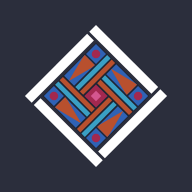
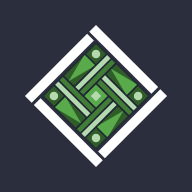
Add files via upload

Changed region(s): [[0.2188, 0.2188, 0.7812, 0.7812]]

diff --git a/css/style.css b/css/style.css
@@ -1,13 +1,11 @@
 /* Maintenance Management portal
-   Palette: Tapestry slate + turquoise, with rust and a four-colour weave bar from the rug logo. Set brand.primary and brand.accent in js/config.js to change it. */
+   Palette: Tapestry slate + green by default. Set brand.primary and brand.accent in js/config.js to change it. */
 :root{
   --navy:#2b2e3c; --navy-2:#383b48; --navy-soft:#4b4d59;
   /* Brand colours. These defaults are overwritten by brand.accent and brand.primary in js/config.js */
   --navy-hover:#404350;
-  --green:#3a9fc4; --green-deep:#2a7290; --green-hover:#25647f; --green-ink:#1e5168;
-  --green-tint:#e1f1f6; --green-mist:#f2f9fb; --green-line:#c9e4ee; --green-light:#a5d4e6; --green-glow:rgba(42,114,144,.35);
-  --warm:#b8502e; --warm-light:#e3906f;
-  --weave:linear-gradient(90deg,#b8502e 0 25%,#3a9fc4 25% 50%,#2f62b5 50% 75%,#a3284f 75% 100%);
+  --green:#58aa4b; --green-deep:#417d37; --green-hover:#396e30; --green-ink:#2f5c28;
+  --green-tint:#e6f2e4; --green-mist:#f3f9f2; --green-line:#d0e7cd; --green-light:#b4d9ae; --green-glow:rgba(65,125,55,.35);
   --bg:#f5f6f8; --surface:#ffffff; --ink:#1a1f2b; --muted:#5a6273; --line:#e3e7ed; --line-2:#d2d8e1;
   --info:#363946; --info-bg:#eff1f3; --info-line:#d9dce2;
   --amber:#8a5a00; --amber-bg:#fff4dc; --amber-line:#f0d08a;
@@ -603,11 +601,3 @@ h1,h2,h3,.hero-full h1{font-weight:600}
 .brand-site{color:var(--green-light);font-size:1rem}
 @media (max-width:640px){ .brand-lockup{height:44px} .brand-divider{height:26px} .brand-site{font-size:.85rem} }
 @media (max-width:440px){ .brand-divider,.brand-site{display:none} .brand-lockup{height:46px} }
-
-/* v18 rug palette: warm labels and the woven colour bar */
-.kicker,.contact-panel .kicker{color:var(--warm)}
-.hero-full{border-bottom:0}
-.hero-full::after{content:"";position:absolute;left:0;right:0;bottom:0;height:5px;background:var(--weave);z-index:3}
-.hero-full .ticker-label{color:var(--warm-light)}
-.site-footer{border-top:0;position:relative}
-.site-footer::before{content:"";position:absolute;left:0;right:0;top:0;height:4px;background:var(--weave)}

diff --git a/js/brand.js b/js/brand.js
@@ -52,17 +52,6 @@
     root.setProperty("--green-glow", "rgba(" + deep.map(Math.round).join(",") + ",.35)");
   }
 
-  var warm = hex(B.warm);
-  if (warm) {
-    root.setProperty("--warm", toHex(until(warm, WHITE, 4.6, BLACK)));
-    root.setProperty("--warm-light", toHex(until(mix(warm, WHITE, 0.35), primary || [43, 46, 60], 4.6, WHITE)));
-  }
-  if (B.weave && B.weave.length) {
-    var cols = B.weave.map(hex).filter(Boolean), seg = 100 / cols.length, stops = [];
-    cols.forEach(function (c, i) { stops.push(toHex(c) + " " + (i * seg) + "% " + ((i + 1) * seg) + "%"); });
-    root.setProperty("--weave", "linear-gradient(90deg," + stops.join(",") + ")");
-  }
-
   // Photo focus points: centre each crop on the subject (set in config.js > photos)
   var P = (window.SITE && window.SITE.photos) || {};
   var rules = Object.keys(P).filter(function (k) { return P[k] && P[k].focus; }).map(function (k) {

diff --git a/css/poster.css b/css/poster.css
@@ -13,8 +13,7 @@
 .sheet.letter{width:8.5in;height:11in}
 .sheet.a4{width:210mm;height:297mm}
 
-.p-top{display:flex;align-items:center;gap:.9rem;background:var(--navy);color:#fff;padding:.4in var(--pad) .35in;border-bottom:0;position:relative}
-.p-top::after{content:"";position:absolute;left:0;right:0;bottom:-.09in;height:.09in;background:var(--weave);-webkit-print-color-adjust:exact;print-color-adjust:exact}
+.p-top{display:flex;align-items:center;gap:.9rem;background:var(--navy);color:#fff;padding:.4in var(--pad) .35in;border-bottom:.09in solid var(--green)}
 .p-logo{width:.95in;height:.75in;font-size:.6rem;border-color:rgba(255,255,255,.4);background:rgba(255,255,255,.08);color:#dfe5ee}
 .p-logo-img{height:1in;width:1in;object-fit:contain}
 .p-org{display:flex;flex-direction:column;line-height:1.15}

diff --git a/js/config.js b/js/config.js
@@ -15,12 +15,7 @@ window.SITE = {
   // Lighter and darker shades are worked out automatically, and text is kept readable.
   brand: {
     primary: "#2b2e3c",
-    accent: "#3a9fc4",
-    // Optional extras, taken from the logo:
-    // warm  = second highlight for small labels (kept readable on white automatically)
-    // weave = colours for the thin striped bar under the hero and poster header ("" turns it off)
-    warm: "#b8502e",
-    weave: ["#b8502e", "#3a9fc4", "#2f62b5", "#a3284f"]
+    accent: "#58aa4b"
   },
 
   // Logo: put the Nation's logo in /images and set its path here, e.g. "images/logo.png".

diff --git a/poster.html b/poster.html
@@ -8,10 +8,10 @@
   <meta name="theme-color" content="#2b2e3c">
   <link rel="stylesheet" href="css/fonts.css?v=4">
   <link rel="icon" type="image/svg+xml" href="images/favicon.svg">
-  <link rel="stylesheet" href="css/style.css?v=18">
-  <link rel="stylesheet" href="css/poster.css?v=7">
-  <script src="js/config.js?v=15"></script>
-  <script src="js/brand.js?v=3"></script>
+  <link rel="stylesheet" href="css/style.css?v=17">
+  <link rel="stylesheet" href="css/poster.css?v=6">
+  <script src="js/config.js?v=14"></script>
+  <script src="js/brand.js?v=2"></script>
 </head>
 <body class="poster-page">
 

diff --git a/404.html b/404.html
@@ -22,9 +22,9 @@
   <link rel="manifest" href="manifest.webmanifest">
   <meta name="apple-mobile-web-app-capable" content="yes">
   <meta name="apple-mobile-web-app-title" content="Maintenance">
-  <link rel="stylesheet" href="css/style.css?v=18">
-  <script src="js/config.js?v=15"></script>
-  <script src="js/brand.js?v=3"></script>
+  <link rel="stylesheet" href="css/style.css?v=17">
+  <script src="js/config.js?v=14"></script>
+  <script src="js/brand.js?v=2"></script>
 </head>
 <body>
 <a class="skip" href="#main">Skip to content</a>

diff --git a/community.html b/community.html
@@ -21,9 +21,9 @@
   <link rel="manifest" href="manifest.webmanifest">
   <meta name="apple-mobile-web-app-capable" content="yes">
   <meta name="apple-mobile-web-app-title" content="Maintenance">
-  <link rel="stylesheet" href="css/style.css?v=18">
-  <script src="js/config.js?v=15"></script>
-  <script src="js/brand.js?v=3"></script>
+  <link rel="stylesheet" href="css/style.css?v=17">
+  <script src="js/config.js?v=14"></script>
+  <script src="js/brand.js?v=2"></script>
 </head>
 <body>
 <a class="skip" href="#main">Skip to content</a>

diff --git a/index.html b/index.html
@@ -21,9 +21,9 @@
   <link rel="manifest" href="manifest.webmanifest">
   <meta name="apple-mobile-web-app-capable" content="yes">
   <meta name="apple-mobile-web-app-title" content="Maintenance">
-  <link rel="stylesheet" href="css/style.css?v=18">
-  <script src="js/config.js?v=15"></script>
-  <script src="js/brand.js?v=3"></script>
+  <link rel="stylesheet" href="css/style.css?v=17">
+  <script src="js/config.js?v=14"></script>
+  <script src="js/brand.js?v=2"></script>
 </head>
 <body>
 <a class="skip" href="#main">Skip to content</a>

diff --git a/offline.html b/offline.html
@@ -21,9 +21,9 @@
   <link rel="manifest" href="manifest.webmanifest">
   <meta name="apple-mobile-web-app-capable" content="yes">
   <meta name="apple-mobile-web-app-title" content="Maintenance">
-  <link rel="stylesheet" href="css/style.css?v=18">
-  <script src="js/config.js?v=15"></script>
-  <script src="js/brand.js?v=3"></script>
+  <link rel="stylesheet" href="css/style.css?v=17">
+  <script src="js/config.js?v=14"></script>
+  <script src="js/brand.js?v=2"></script>
 </head>
 <body>
 <a class="skip" href="#main">Skip to content</a>

diff --git a/staff.html b/staff.html
@@ -21,9 +21,9 @@
   <link rel="manifest" href="manifest.webmanifest">
   <meta name="apple-mobile-web-app-capable" content="yes">
   <meta name="apple-mobile-web-app-title" content="Maintenance">
-  <link rel="stylesheet" href="css/style.css?v=18">
-  <script src="js/config.js?v=15"></script>
-  <script src="js/brand.js?v=3"></script>
+  <link rel="stylesheet" href="css/style.css?v=17">
+  <script src="js/config.js?v=14"></script>
+  <script src="js/brand.js?v=2"></script>
 </head>
 <body>
 <a class="skip" href="#main">Skip to content</a>

diff --git a/sw.js b/sw.js
@@ -3,7 +3,7 @@
   and shows a friendly offline page (with phone numbers) when there's no signal.
   Pages always load fresh when online. Bump VERSION after big updates.
 */
-var VERSION = "v21";
+var VERSION = "v22";
 var CACHE = "maint-" + VERSION;
 var CORE = [
   "./", "index.html", "staff.html", "community.html", "offline.html",
